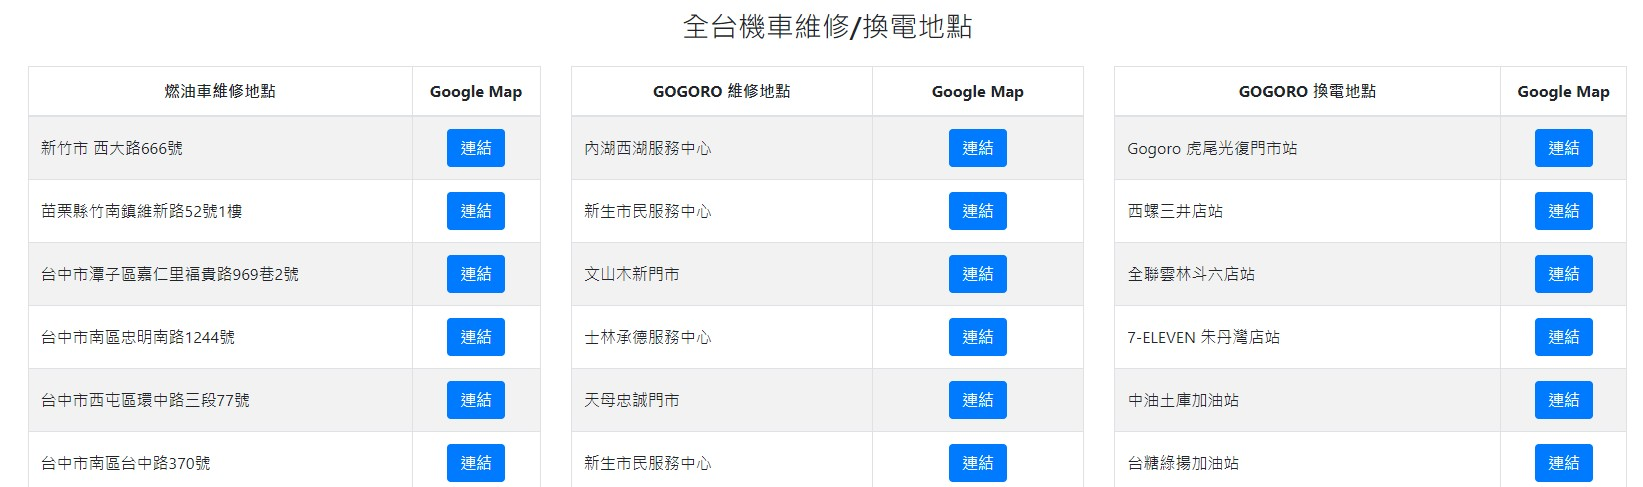
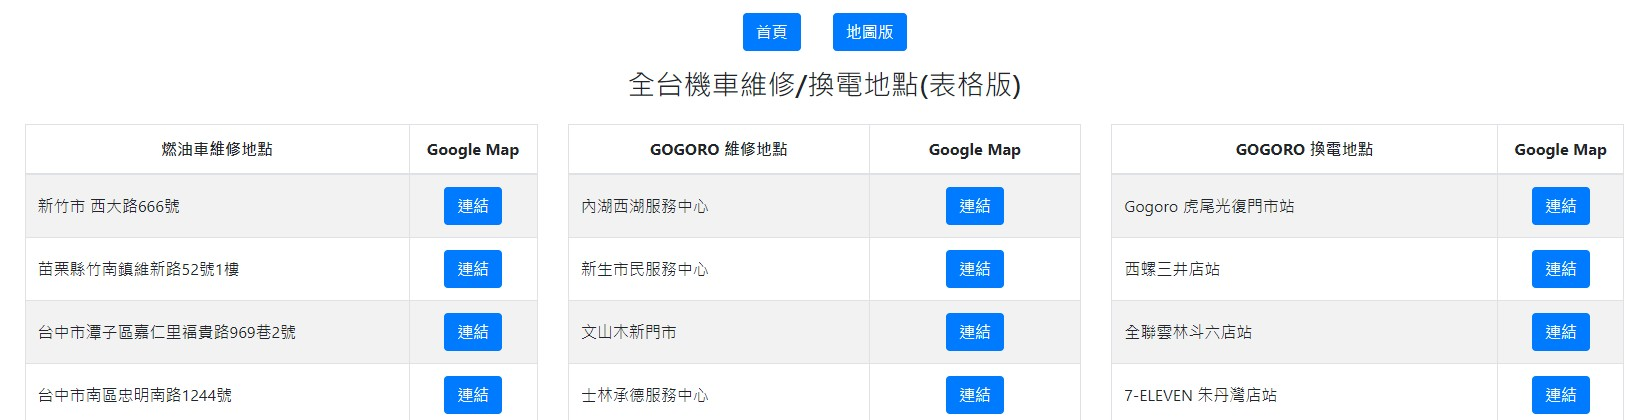
feat: 分隔表格版及地圖版

diff --git a/templates/location.html b/templates/location.html
@@ -8,6 +8,7 @@
         .custom-width {
             max-width: 1630px;
         }
+
         .table td.vertical-middle {
             vertical-align: middle;
         }
@@ -41,10 +42,11 @@
 
     <div class="container custom-width">
         <div class="row justify-content-center py-3">
-            <div class="h3">全台機車維修/換電地點</div>
+            <a class="d-inline mx-3 btn btn-primary" href="/" role="button">首頁</a>
+            <a class="d-inline mx-3 btn btn-primary" href="/map" role="button">地圖版</a>
         </div>
-        <div class="row justify-content-center embed-responsive embed-responsive-1by1 mb-3">
-            <iframe class="embed-responsive-item" src="https://www.google.com/maps/d/u/0/embed?mid=1T5BitrEzut8T9Gj6-qw6xmErwfYPsKXn"></iframe>
+        <div class="row justify-content-center pb-3">
+            <div class="h3">全台機車維修/換電地點(表格版)</div>
         </div>
         <div class="row">
             <div class="col-sm">

diff --git a/templates/map.html b/templates/map.html
@@ -1,0 +1,30 @@
+<!DOCTYPE html>
+
+<html>
+
+<head>
+    <link href="{{ url_for('static', filename ='css/bootstrap.min.css') }}" rel="stylesheet">
+    <style>
+        .custom-width {
+            max-width: 1630px;
+        }
+    </style>
+</head>
+
+<body>
+    <div class="container custom-width">
+        <div class="row justify-content-center py-3">
+            <a class="d-inline mx-3 btn btn-primary" href="/" role="button">首頁</a>
+            <a class="d-inline mx-3 btn btn-primary" href="/location" role="button">表格版</a>
+        </div>
+        <div class="row justify-content-center pb-3">
+            <div class="h3">全台機車維修/換電地點(地圖版)</div>
+        </div>
+        <div class="embed-responsive embed-responsive-3by4 mb-3">
+            <iframe class="embed-responsive-item"
+                src="https://www.google.com/maps/d/u/0/embed?mid=1T5BitrEzut8T9Gj6-qw6xmErwfYPsKXn"></iframe>
+        </div>
+    </div>
+</body>
+
+</html>

diff --git a/index.py b/index.py
@@ -14,6 +14,10 @@ def home():
 def location_function():
     return location()
 
+@app.route("/map")
+def map_function():
+    return render_template("map.html")
+
 @app.route("/fixPrice")
 def fixPrice_function():
     return fixPrice()
